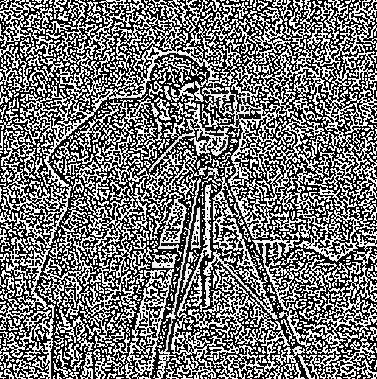
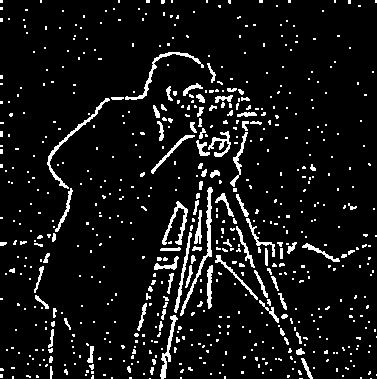
.

diff --git a/Combined/Laplacian/code.py b/Combined/Laplacian/code.py
@@ -2,17 +2,28 @@ import cv2
 import numpy as np
 
 image=cv2.imread('image.png')
-distance=0.0001
+image=cv2.cvtColor(image, cv2.COLOR_BGR2GRAY)
 
-image1=cv2.GaussianBlur(image, (5, 5), distance)
-image2=cv2.GaussianBlur(image, (5, 5), 0)
+kernel=np.array([[0, -1, 0], [-1, 4, -1], [0, -1, 0]])
+structural_element=np.array([[1, 1], [1, 1]])
 
-image=-image1+image2
-cv2.imwrite('border1.png', image)
+gaussian=cv2.GaussianBlur(image, (5, 5), 2)
+border1=cv2.filter2D(gaussian, -1, kernel)
+result, border1=cv2.threshold(border1, 0, 255, cv2.THRESH_BINARY+cv2.THRESH_OTSU)
+border1=cv2.erode(border1, structural_element, iterations=1)
+border1=cv2.dilate(border1, structural_element, iterations=1)
+border1=cv2.erode(border1, structural_element, iterations=1)
+border1=cv2.dilate(border1, structural_element, iterations=1)
+cv2.imwrite('border1.png', border1)
 
-image=cv2.imread('image.png')
-
-image=cv2.GaussianBlur(image, (5, 5), distance)
-kernel=np.array([[0, 1, 0], [1, -4, 1], [0, 1, 0]])
-image=cv2.filter2D(image, -1, kernel)
-cv2.imwrite('border2.png', image)
+gaussian1=cv2.GaussianBlur(image, (7, 7), 2)
+gaussian2=cv2.GaussianBlur(image, (5, 5), 2)
+border2=gaussian2-gaussian1
+result, border2=cv2.threshold(border2, 0, 255, cv2.THRESH_BINARY+cv2.THRESH_OTSU)
+m=len(image)
+n=len(image[0])
+border2=cv2.erode(border2, structural_element, iterations=1)
+border2=cv2.dilate(border2, structural_element, iterations=1)
+border2=cv2.erode(border2, structural_element, iterations=1)
+border2=cv2.dilate(border2, structural_element, iterations=1)
+cv2.imwrite('border2.png', border2)
